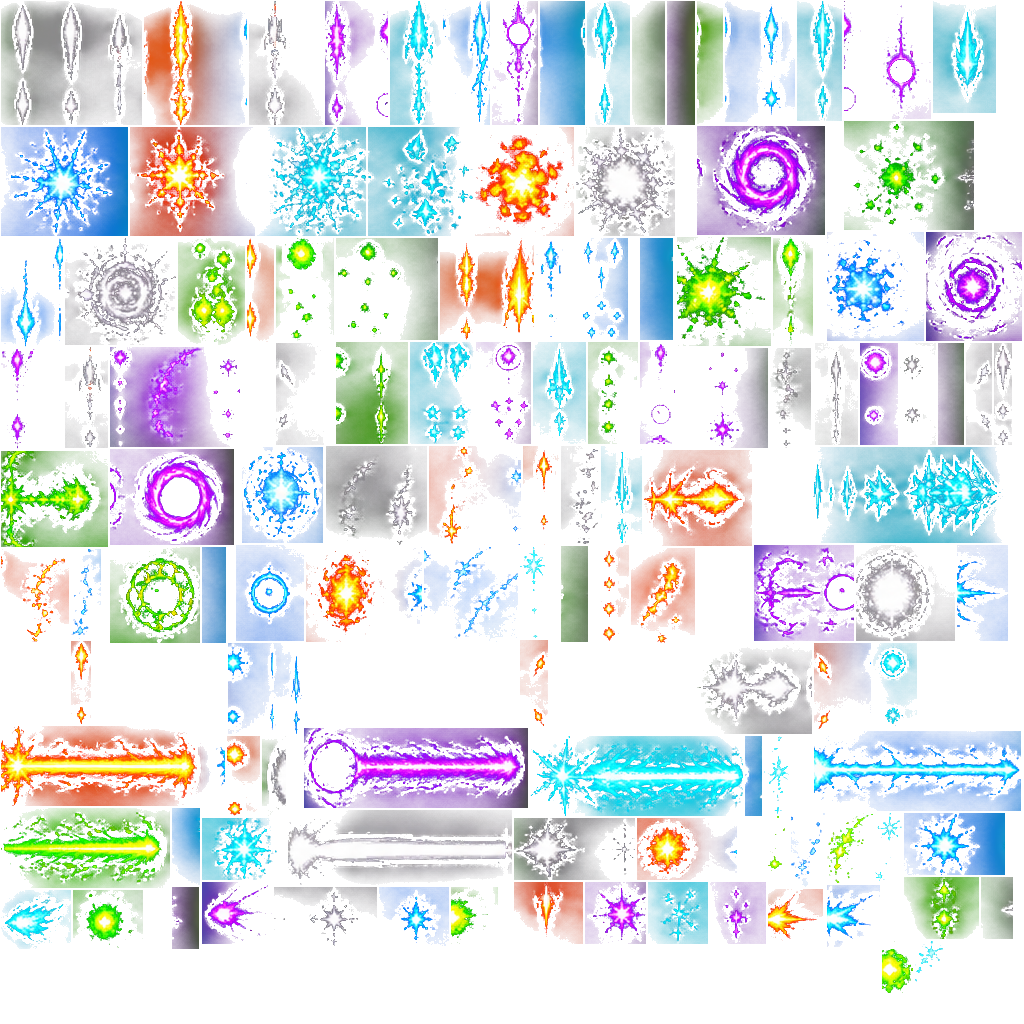
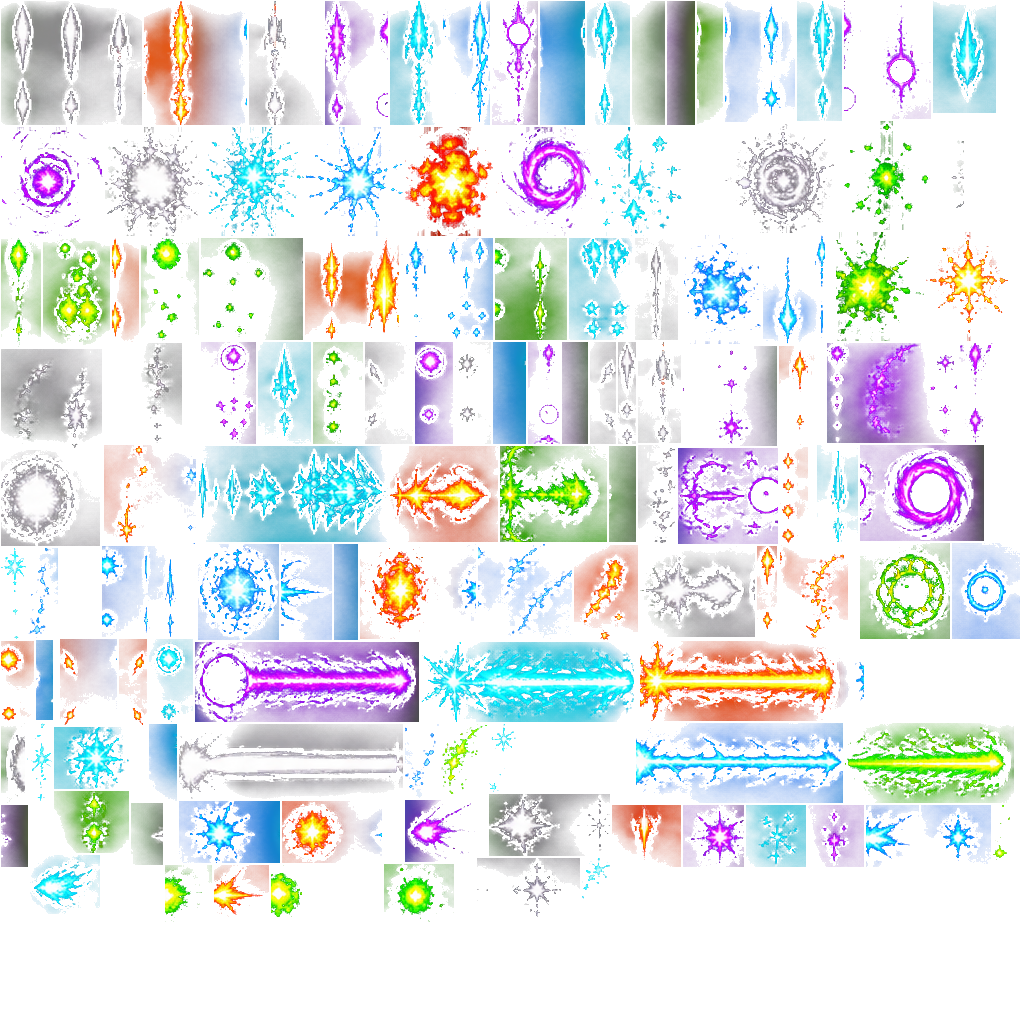
Remove caixas das explosoes

diff --git a/game/tests/explosoes-alpha.test.ts b/game/tests/explosoes-alpha.test.ts
@@ -1,0 +1,79 @@
+import { readFileSync } from 'node:fs';
+import { fileURLToPath } from 'node:url';
+import sharp from 'sharp';
+import { describe, expect, it } from 'vitest';
+
+type Frame = [number, number, number, number, number, number, number, number];
+type Atlas = { image: string; frames: Record<string, Frame> };
+
+const ATLAS_DIR = new URL('../public/assets/atlas/', import.meta.url);
+
+const GRUPOS = [
+  ['espaco', /^fx\/blast_/],
+  ['elemental', /^estouro\//],
+  ['combate', /^estouro\//],
+  ['fleet', /^sr\/blast\//],
+  ['arcade', /(^boom\/|_boom_)/],
+  ['hull', /^hull\/boom/],
+  ['void', /(_morte_|rocha\/explode)/],
+  ['galaxia', /^shmup\/boom\//],
+  ['drone', /^drone\/death_/],
+] as const;
+
+async function carregar(nome: string) {
+  const atlas = JSON.parse(
+    readFileSync(new URL(`${nome}.json`, ATLAS_DIR), 'utf8'),
+  ) as Atlas;
+  const { data, info } = await sharp(fileURLToPath(new URL(atlas.image, ATLAS_DIR)))
+    .ensureAlpha()
+    .raw()
+    .toBuffer({ resolveWithObject: true });
+  return { atlas, data, largura: info.width };
+}
+
+function bordaDoFrame(data: Buffer, largura: number, frame: Frame) {
+  const [left, top, w, h] = frame;
+  let total = 0;
+  let visiveis = 0;
+  let poeira = 0;
+
+  for (let y = 0; y < h; y++) {
+    for (let x = 0; x < w; x++) {
+      if (x !== 0 && y !== 0 && x !== w - 1 && y !== h - 1) continue;
+      const alfa = data[((top + y) * largura + left + x) * 4 + 3]!;
+      total++;
+      if (alfa > 6) visiveis++;
+      if (alfa > 0 && alfa < 18) poeira++;
+    }
+  }
+  return { cobertura: visiveis / total, poeira };
+}
+
+describe('transparencia das explosoes de todas as naves', () => {
+  it.each(GRUPOS)('%s tem explosoes sem uma moldura retangular', async (nome, padrao) => {
+    const { atlas, data, largura } = await carregar(nome);
+    const frames = Object.entries(atlas.frames).filter(([id]) => padrao.test(id));
+
+    expect(frames.length, `grupo de explosoes ausente em ${nome}`).toBeGreaterThan(0);
+    for (const [id, frame] of frames) {
+      const { cobertura } = bordaDoFrame(data, largura, frame);
+      // Um halo ou estilhaço pode tocar uma lateral. Uma caixa de matte, porém,
+      // deixa quase todo o perímetro aceso ao mesmo tempo.
+      expect(cobertura, `${nome}:${id} ainda tem fundo nas bordas`).toBeLessThan(0.7);
+    }
+  });
+
+  it.each([
+    ['espaco', /^fx\/blast_/],
+    ['elemental', /^estouro\//],
+  ] as const)('%s remove a poeira da folha achatada', async (nome, padrao) => {
+    const { atlas, data, largura } = await carregar(nome);
+    const frames = Object.entries(atlas.frames).filter(([id]) => padrao.test(id));
+
+    for (const [id, frame] of frames) {
+      const { cobertura, poeira } = bordaDoFrame(data, largura, frame);
+      expect(cobertura, `${nome}:${id} ainda parece um recorte quadrado`).toBeLessThan(0.25);
+      expect(poeira, `${nome}:${id} ainda tem alfa residual`).toBe(0);
+    }
+  });
+});
